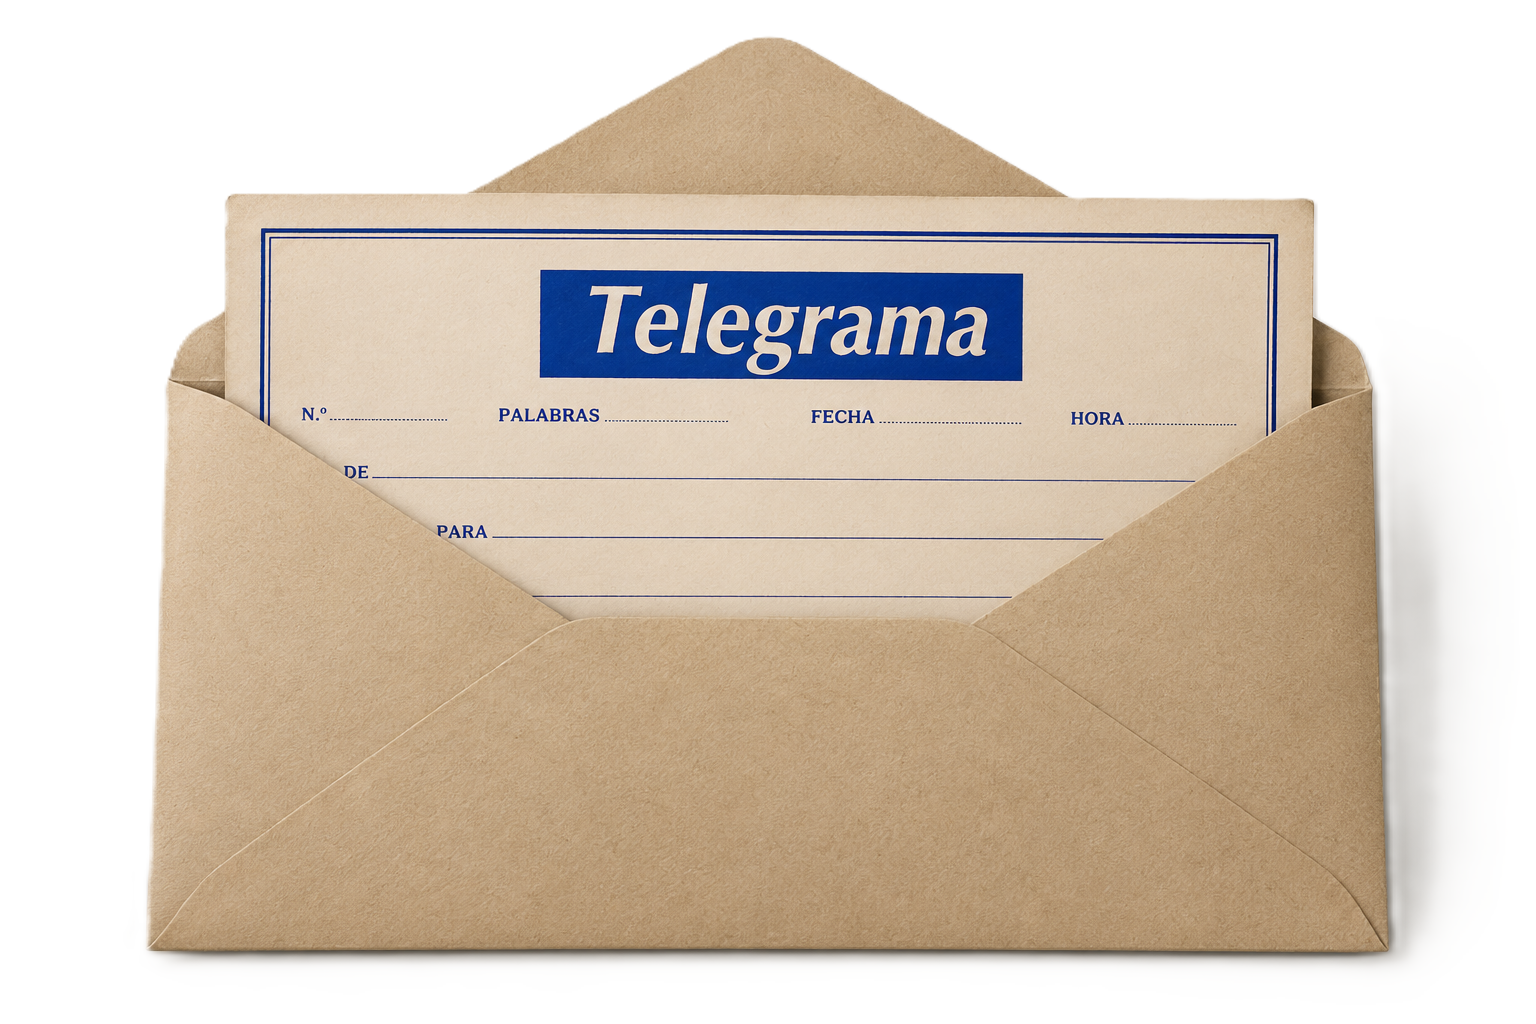
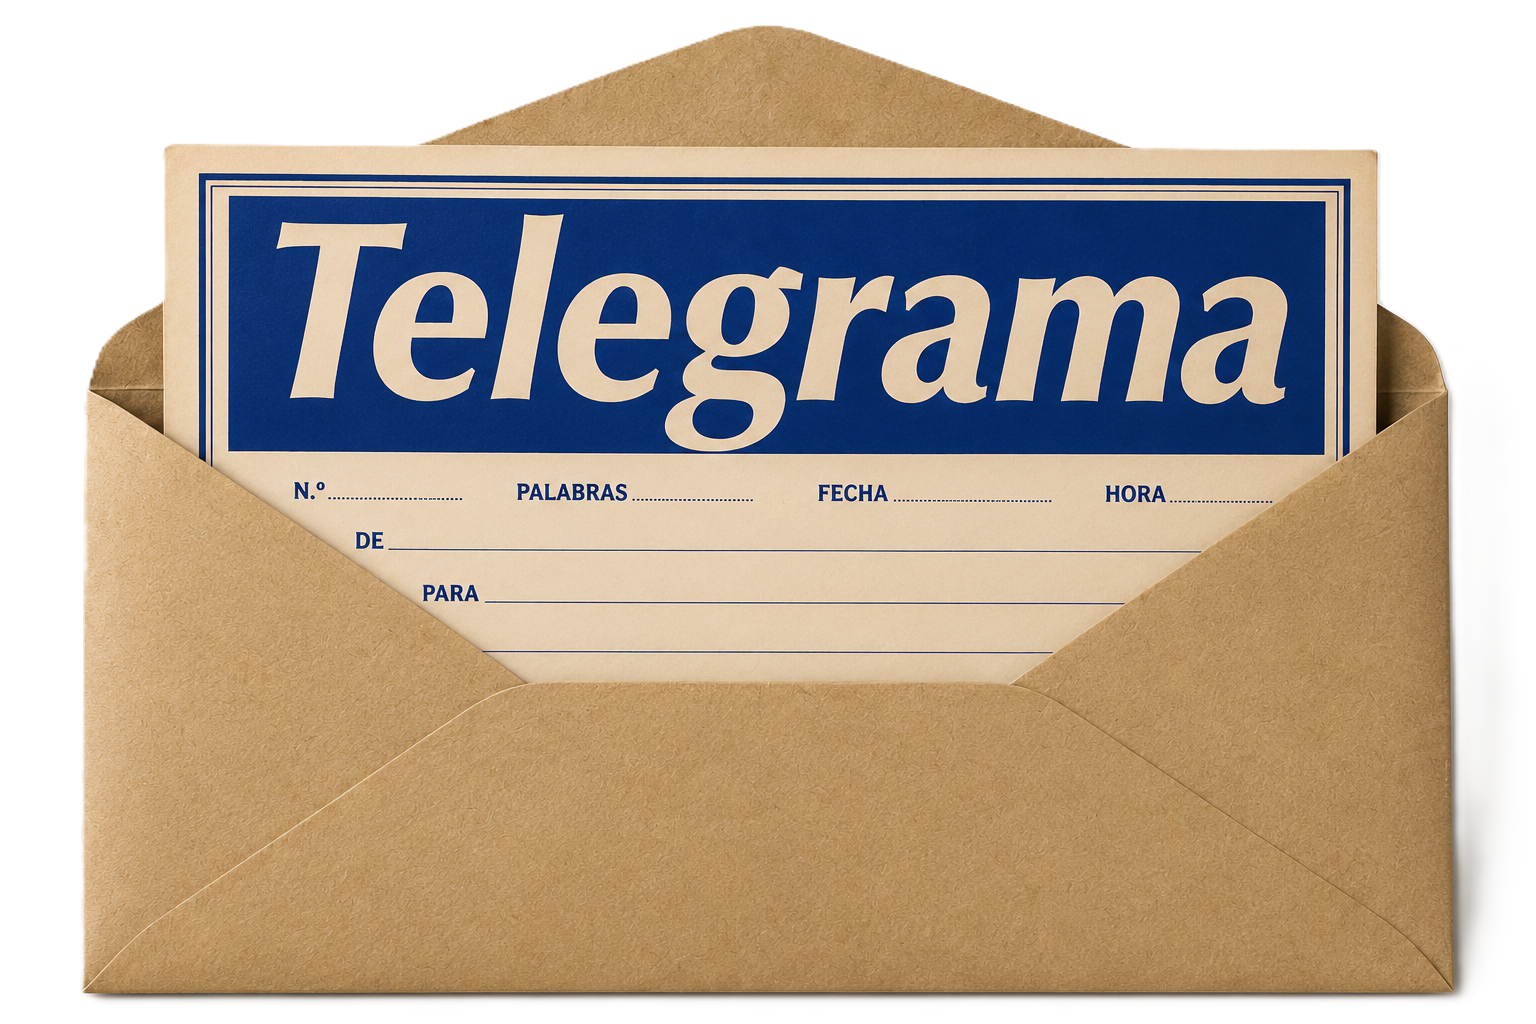
V3

diff --git a/src/components/WinnerModal/index.jsx b/src/components/WinnerModal/index.jsx
@@ -106,7 +106,11 @@ const WinnerModal = ({
   useEffect(() => {
     setShowBocaNotFound(false);
 
-    if (!winner || winnerBadge?.id !== "boca" || !BOCA_NOT_FOUND_NAMES.has(winner)) {
+    if (
+      !winner ||
+      winnerBadge?.id !== "boca" ||
+      !BOCA_NOT_FOUND_NAMES.has(winner)
+    ) {
       return () => {};
     }
 
@@ -141,7 +145,7 @@ const WinnerModal = ({
 
   const closeWithState = (callback) => {
     const isTelegramWalking = remainingSeconds < 0 && !promoted;
-    callback({ telegramWalking: isTelegramWalking });
+    callback({ telegramWalking: isTelegramWalking, promoted });
   };
 
   const handleBoxKeyDown = (e) => {
@@ -157,7 +161,9 @@ const WinnerModal = ({
       ) : (
         <Confetti active={!!winner} colors={confettiColors} />
       )}
-      {promoted && !isVegasTheme && <Confetti key="promoted" active colors={confettiColors} />}
+      {promoted && !isVegasTheme && (
+        <Confetti key="promoted" active colors={confettiColors} />
+      )}
       <div
         className={`winner-modal__box${isVegasTheme ? " winner-modal__box--vegas" : ""}`}
         style={
@@ -175,7 +181,9 @@ const WinnerModal = ({
         onClick={(e) => e.stopPropagation()}
         onKeyDown={handleBoxKeyDown}
       >
-        {isVegasTheme && <p className="winner-modal__jackpot">JACKPOT WINNER</p>}
+        {isVegasTheme && (
+          <p className="winner-modal__jackpot">JACKPOT WINNER</p>
+        )}
         {(displayImage || winnerBadge?.logo || showBocaNotFound) && (
           <div className="winner-modal__hero">
             {displayImage && (
@@ -224,7 +232,15 @@ const WinnerModal = ({
                 alt="Telegrama"
                 className="winner-modal__track-telegram"
                 style={{
-                  left: `calc(${telegramProgress * 100}% - ${telegramProgress * 108}px)`,
+                  left: `calc(${telegramProgress * 100}% - ${telegramProgress * 108}px + 30px)`,
+                }}
+              />
+              <img
+                src="/Cartero.png"
+                alt="Cartero"
+                className="winner-modal__track-cartero"
+                style={{
+                  left: `calc(${telegramProgress * 100}% - ${telegramProgress * 108}px + 85px)`,
                 }}
               />
               <span className="winner-modal__track-house">🏠</span>
@@ -239,6 +255,11 @@ const WinnerModal = ({
                     src="/Telegrama.png"
                     alt="Telegrama"
                     className="winner-modal__track-telegram winner-modal__track-telegram--arrived"
+                  />
+                  <img
+                    src="/Cartero.png"
+                    alt="Cartero"
+                    className="winner-modal__track-cartero winner-modal__track-cartero--arrived"
                   />
                   <span className="winner-modal__track-house">🏠</span>
                 </div>

diff --git a/src/App.jsx b/src/App.jsx
@@ -391,10 +391,12 @@ const WheelOfNames = () => {
     modalOpenedAt.current = Date.now();
   };
 
-  const handleClose = ({ telegramWalking } = {}) => {
+  const handleClose = ({ telegramWalking, promoted } = {}) => {
     const elapsed = Date.now() - (modalOpenedAt.current ?? 0);
 
-    if (telegramWalking) {
+    if (promoted) {
+      setToast({ name: winner, image: '/Afuera.png' });
+    } else if (telegramWalking) {
       setToast({ name: winner, image: '/MuchoTexto.jpg' });
     } else if (elapsed < 10000) {
       setToast({ name: winner });
@@ -412,11 +414,13 @@ const WheelOfNames = () => {
     saveNames([...names, name]);
   };
 
-  const handleRemoveAndClose = ({ telegramWalking } = {}) => {
+  const handleRemoveAndClose = ({ telegramWalking, promoted } = {}) => {
     const elapsed = Date.now() - (modalOpenedAt.current ?? 0);
     const originalName = mirrored ? winner.split("").reverse().join("") : winner;
 
-    if (telegramWalking) {
+    if (promoted) {
+      setToast({ name: winner, image: '/Afuera.png' });
+    } else if (telegramWalking) {
       setToast({ name: winner, image: '/MuchoTexto.jpg' });
     } else if (elapsed < 10000) {
       setToast({ name: winner });
@@ -499,6 +503,7 @@ const WheelOfNames = () => {
         <WinnerToast
           name={toast.name}
           image={toast.image}
+          right={toast.right}
           onDismiss={handleDismissToast}
         />
       )}

diff --git a/src/styles/app.scss b/src/styles/app.scss
@@ -1048,16 +1048,17 @@ $wheel-glow: rgb(74 158 255 / 15%);
     align-items: center;
   }
 
-  &__track-telegram {
+  &__track-telegram,
+  &__track-cartero {
     position: absolute;
     width: 60px;
     border-radius: 10%;
     height: auto;
     top: 50%;
-    transform: translate(-50%, -50%);
-    transition: left 0.8s ease-out;
     filter: drop-shadow(0 2px 8px rgb(0 0 0 / 50%));
     z-index: 1;
+    transform: translate(-45%, -50%);
+    transition: left 0.8s ease-out;
 
     &--arrived {
       position: static;
@@ -1183,6 +1184,12 @@ $wheel-glow: rgb(74 158 255 / 15%);
   animation: toast-in 0.3s ease;
   max-width: 400px;
 
+  &--right {
+    left: auto;
+    right: 2rem;
+    animation: toast-in-right 0.5s ease;
+  }
+
   &__name {
     font-size: 2.2rem;
     font-weight: 700;
@@ -1209,6 +1216,18 @@ $wheel-glow: rgb(74 158 255 / 15%);
   to {
     opacity: 1;
     transform: translateY(0);
+  }
+}
+
+@keyframes toast-in-right {
+  from {
+    opacity: 0;
+    transform: translateX(100px);
+  }
+
+  to {
+    opacity: 1;
+    transform: translateX(0);
   }
 }
 

diff --git a/src/components/WinnerToast/index.jsx b/src/components/WinnerToast/index.jsx
@@ -12,7 +12,7 @@ const ATRAS_IMAGES = [
 
 const pickRandom = (arr) => arr[Math.floor(Math.random() * arr.length)];
 
-const WinnerToast = ({ name, image: imageProp, onDismiss }) => {
+const WinnerToast = ({ name, image: imageProp, onDismiss, right }) => {
   const [randomImage] = useState(() => pickRandom(ATRAS_IMAGES));
   const image = imageProp || randomImage;
 
@@ -25,7 +25,11 @@ const WinnerToast = ({ name, image: imageProp, onDismiss }) => {
   }, [onDismiss]);
 
   return (
-    <div className="winner-toast" role="status" aria-live="polite">
+    <div
+      className={`winner-toast${right ? ' winner-toast--right' : ''}`}
+      role="status"
+      aria-live="polite"
+    >
       <span className="winner-toast__name">{name}</span>
       <img className="winner-toast__img" src={image} alt="Atrás" />
     </div>
